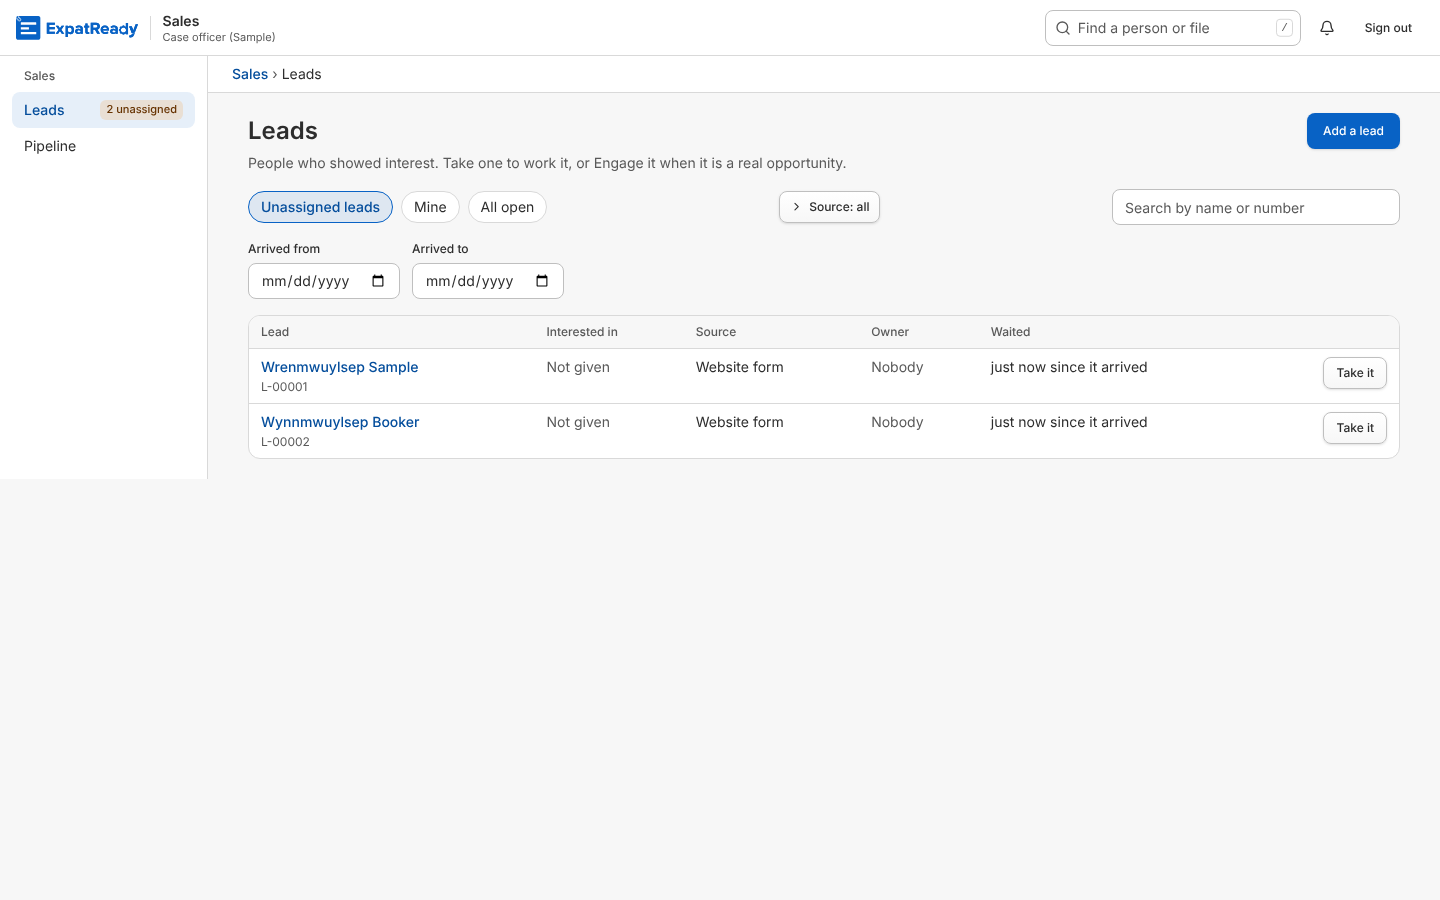
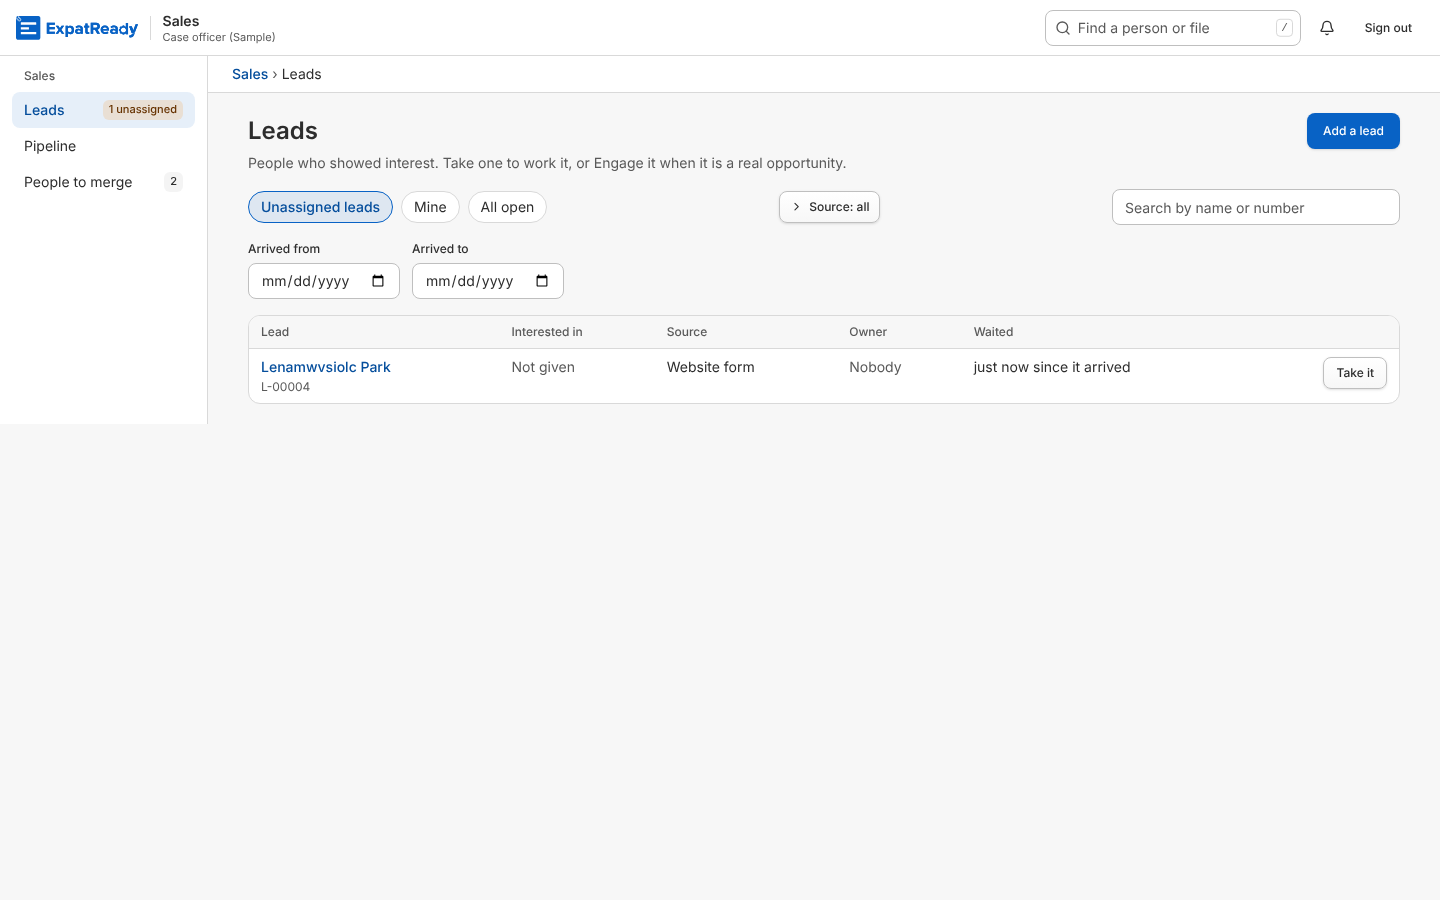
screens: R1.29 FO-9s part 2: build notes and screenshots
Claude-Session: https://claude.ai/code/session_018BSQJoA3Mkv1yoM3B5M5sm

diff --git a/ai-workers/problem-1-pathway-setup-and-form-filling/product/screens/FO-9s/build-notes-part2.md b/ai-workers/problem-1-pathway-setup-and-form-filling/product/screens/FO-9s/build-notes-part2.md
@@ -1,0 +1,39 @@
+# FO-9s part 2: build notes (Sales › People to merge, R1.29)
+
+Branch `claude/compassionate-rubin-tcheu7`, PR #3700. Spec: concept r3 §4 S2 (on #2896's branch), board `design/fo9s-boards.html` S2, brief `design/briefs/track-b/FO-9s-2.md`. Web only, over FO-9b part 2's routes on main; no API, schema or money file touched.
+
+## Top 5 production improvements over the board
+1. Keep separate asks first (a dialog naming both people): there is no route to reverse it, and the pair is not suggested again.
+2. A refused Undo shows the server's reason in the button's place (BR-10), never a toast that disappears.
+3. The Match pill's tooltip opens on keyboard focus too (a focusable trigger with the tip in its accessible name).
+4. The tab is in the address (`?tab=merged|kept`): a link or a reload keeps it.
+5. Undone merges stay on the Merged tab as "Undone <time>" (history), counted out of the tab's number.
+
+## Files
+* New `web/src/modules/front-office/duplicates/review-contract.ts`: zod for the review list and the merge records, the keys, BR-7's sentence, `mergedBy` (pure), `reviewQuery` (shared by the page and the menu).
+* New `web/src/modules/front-office/duplicates/people-to-merge-page.tsx`: the page (tabs, tables, Keep separate dialog, Undo merge, every state).
+* `web/src/modules/front-office/routes.tsx`: one route `/front-office/duplicates`.
+* `web/src/modules/front-office/sales/sales-frame.tsx`: one menu item with the open count, one phone link, both only with `agent/prospect:edit`.
+* `web/src/modules/front-office/duplicates/contract.ts`: one word, `Reason` exported (deviation from the brief's "not edited": reusing part 1's zod instead of a second copy).
+* `web/src/MODULE.rows/FO-9s-2.md`; `tests/check_fo9s_review_browser.ts` (R1-R7, 30 checks); `tests/journeys/j_29.ts` W2 and W5 by screens.
+
+## Deviations (said in the PR)
+* **Merge… is shown to merge-key holders and off** in this part (the brief: "opens nothing"); a case pair's carries BR-7's sentence, tied by `aria-describedby`. Part 3 turns it on.
+* Merged tab rows read "<loser> into <survivor>" with "Merged by you / by <name> / automatically …"; names are the records' current ones (after a merge both can carry the chosen name), so the Undo toast names no one.
+* Kept separate rows say "Decided by staff" or "Decided automatically" (the list carries no actor name).
+
+## Mock vs real
+All real: FO-9b part 2's routes on an isolated copy. Fixture: the test sets a pair OPEN (as a web-form arrival writes it) because Add a lead's "Add as new" writes its pair Kept separate (FO-9b concept B1).
+
+## Checks run
+* `check_fo9s_review_browser.ts` 30/30 (exit 0): BR-6 pass and fail (Case Officer sees only pairs of their own leads; no Merge… or Undo without the merge key; no menu and the no-key sentence without the edit key), BR-7 pass and fail, BR-10 pass and fail (Undo restores by API; a case since the merge → the reason in place), BR-11 pass and fail (Cancel changes nothing; Keep separate moves the pair and clears the lead's "Possible match"), menu count = tab = API `openCount`, empty sentences, arrow-key tabs, axe (no serious) on all three tabs, 375/1024/1440 no sideways scroll, no page error.
+* `j_29.ts` 26/26 (exit 0) on an isolated copy of the branch.
+* `tsc -p web` 0 errors; `graph.mjs --check` G1/G2/G4/G5 0; `count-any` 416 = base.
+
+## Self-score (D1-D20, honest)
+Job and flow 8 · rules 8 · words 8 · states 8 · accessibility 8 · responsive 8 · consistency with Sales 8 · performance not measured beyond three small list reads per page (known gap) · AI none (US$0).
+
+## Known gaps
+* No pagination: the API caps at 500 rows; fine for a firm's pairs today.
+* Who decided a Kept separate pair is not named (the API gives only automatic or not).
+* Merge… opens nothing until part 3.
